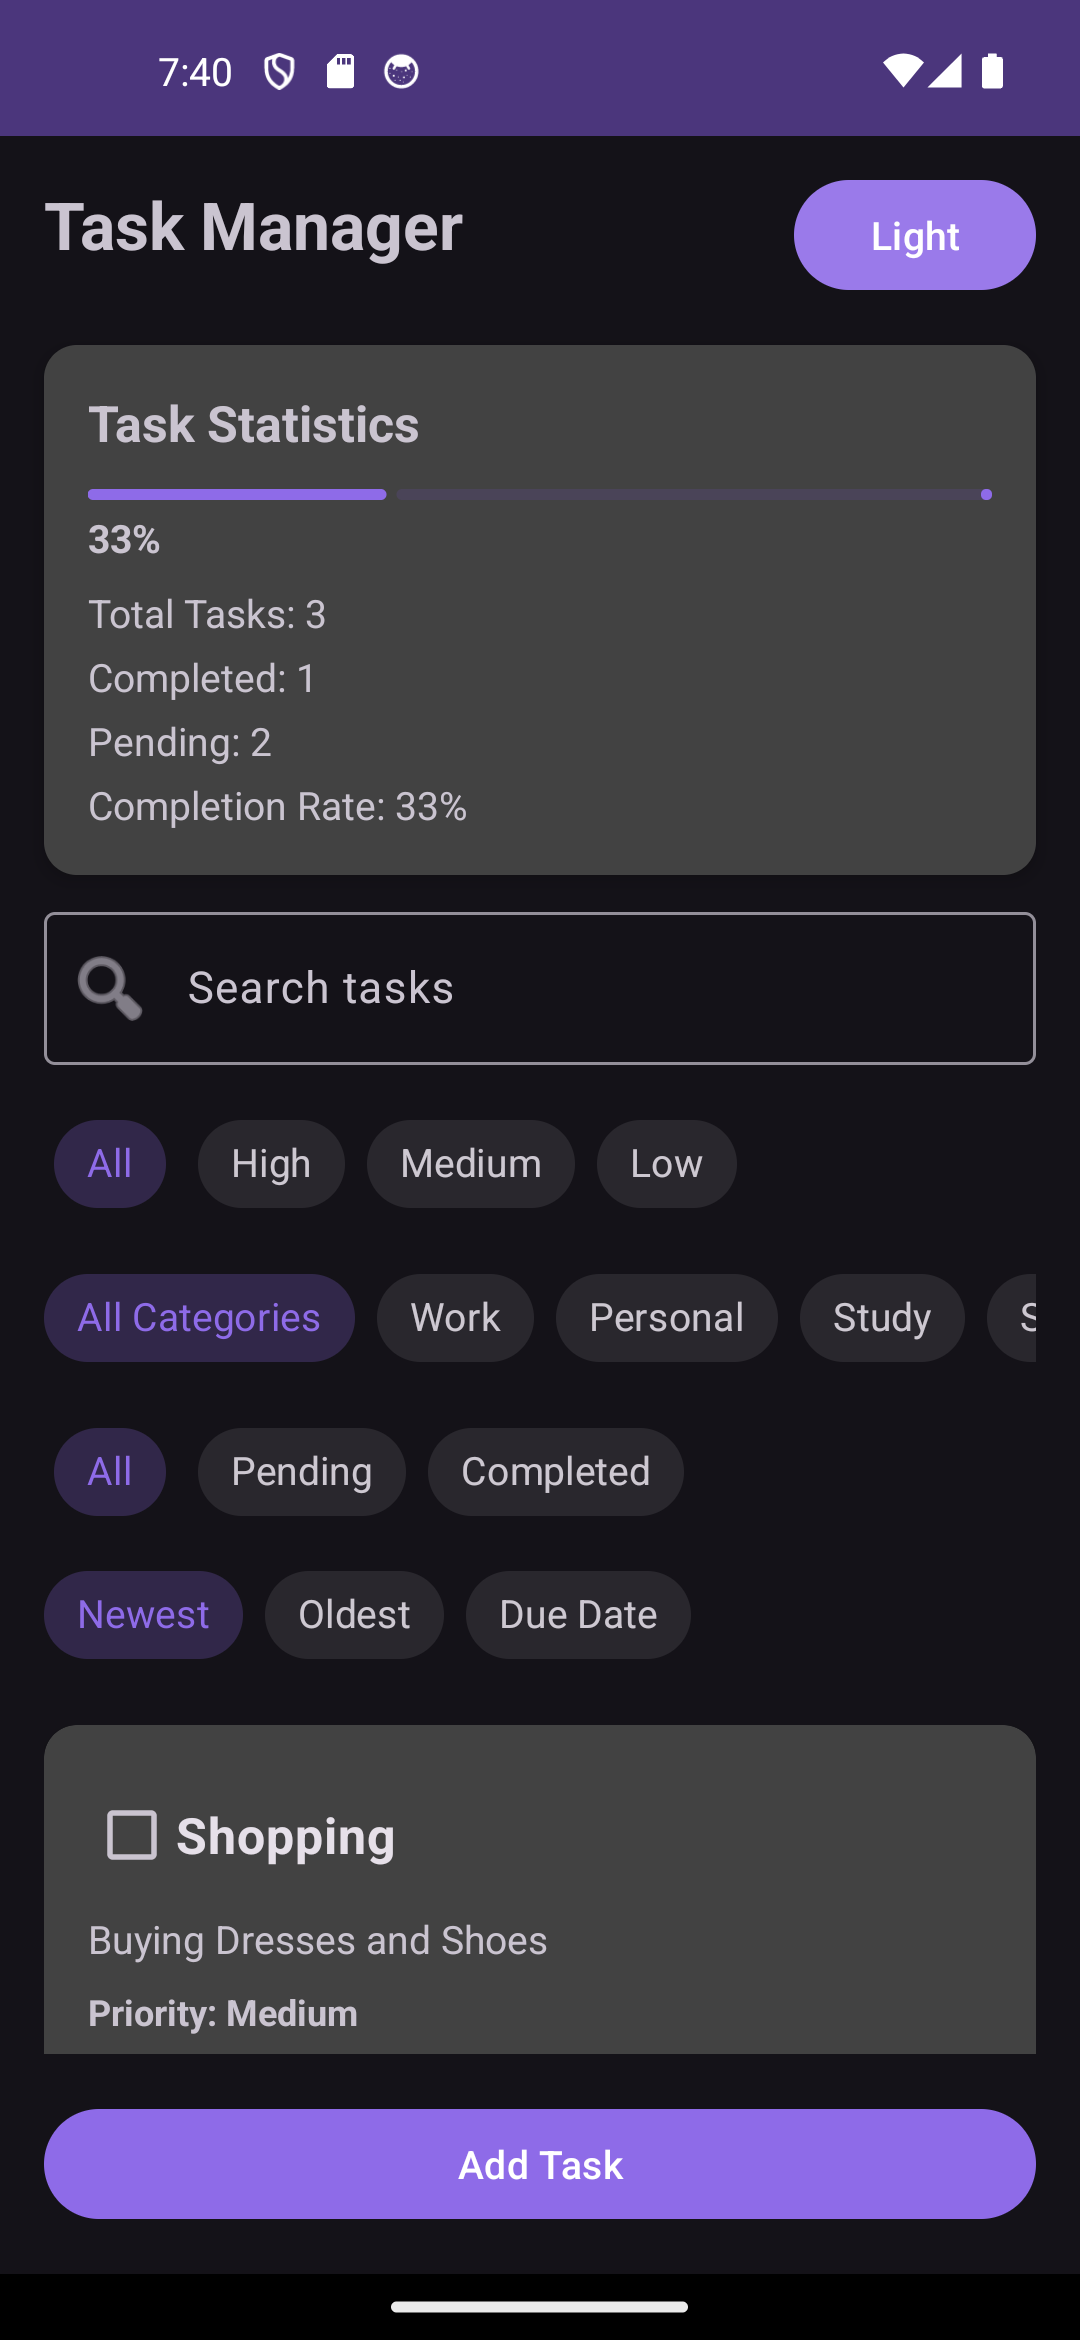
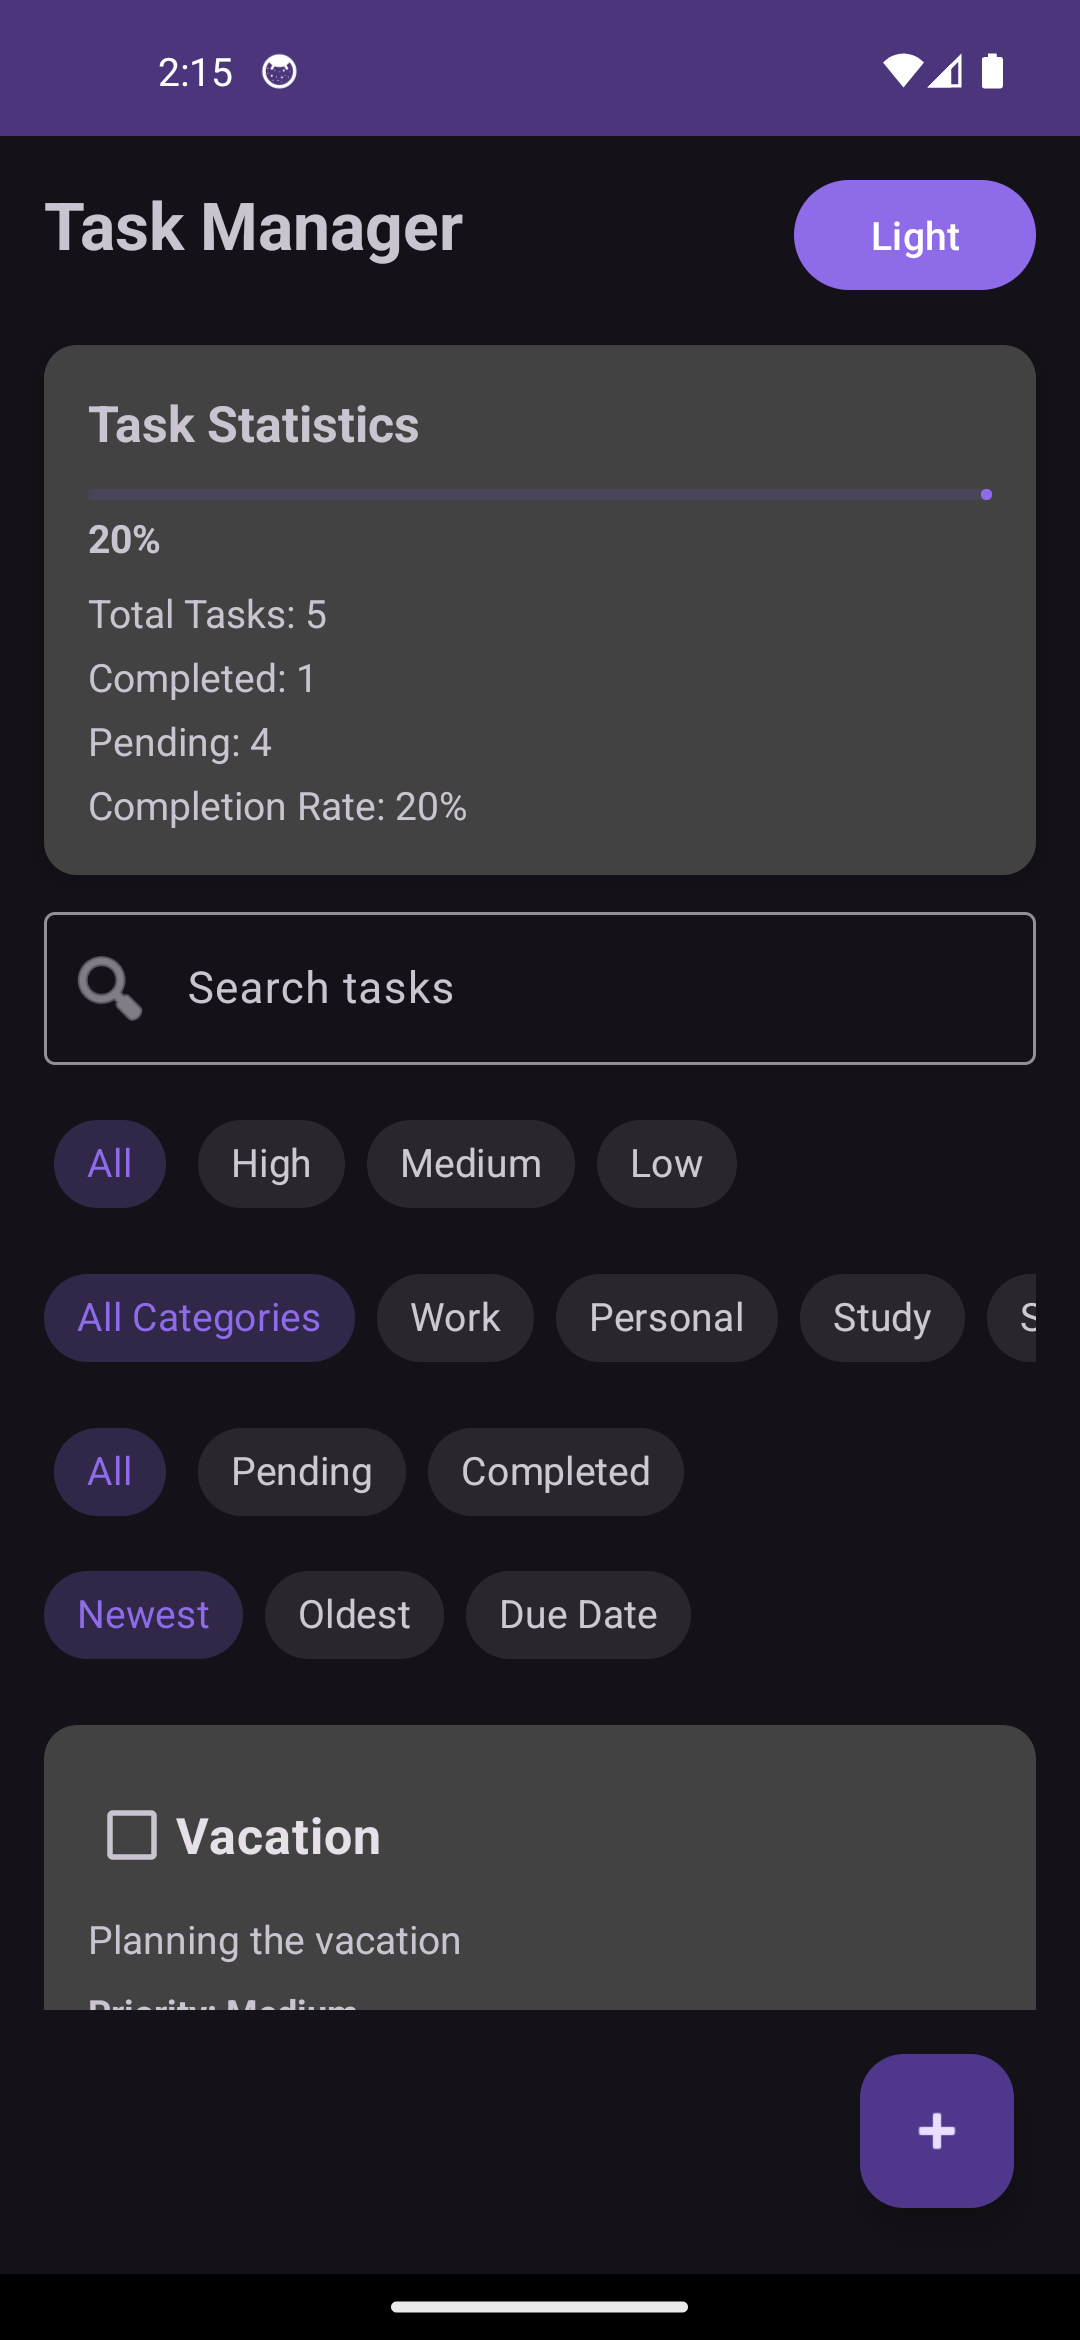
Update Task Manager UI and README

diff --git a/app/src/main/java/com/sanju/taskmanager/MainActivity.kt b/app/src/main/java/com/sanju/taskmanager/MainActivity.kt
@@ -371,8 +371,8 @@ class MainActivity : AppCompatActivity() {
     private fun deleteTaskWithUndo(task: Task) {
         taskViewModel.deleteTask(task)
 
-        Snackbar.make(binding.root, "Task deleted", Snackbar.LENGTH_LONG)
-            .setAction("UNDO") {
+        Snackbar.make(binding.root, getString(R.string.task_deleted), Snackbar.LENGTH_LONG)
+            .setAction(getString(R.string.undo)) {
                 taskViewModel.insertTask(task)
             }
             .show()

diff --git a/README.md b/README.md
@@ -17,6 +17,8 @@ This app helps users create, organize, track, and manage daily tasks efficiently
 * Add new tasks
 * Edit existing tasks
 * Delete tasks
+* Swipe to delete tasks
+* Undo deleted tasks
 * Mark tasks as completed
 * Track pending tasks
 
@@ -135,6 +137,10 @@ Room Database
 
 ![Notification](screenshots/task_notification.png)
 
+### Swipe Delete + Undo
+
+![Swipe Delete](screenshots/swipe_delete_undo.png)
+
 ---
 
 ## 📂 Project Structure
@@ -169,9 +175,10 @@ This project demonstrates:
 * RecyclerView Implementation
 * Local Notifications
 * Search & Filtering Logic
+* Swipe To Delete using ItemTouchHelper
+* Snackbar Undo Actions
 * Dark Mode Support
 * Modern Android Development Practices
-
 ---
 
 ## 👨💻 Developer
